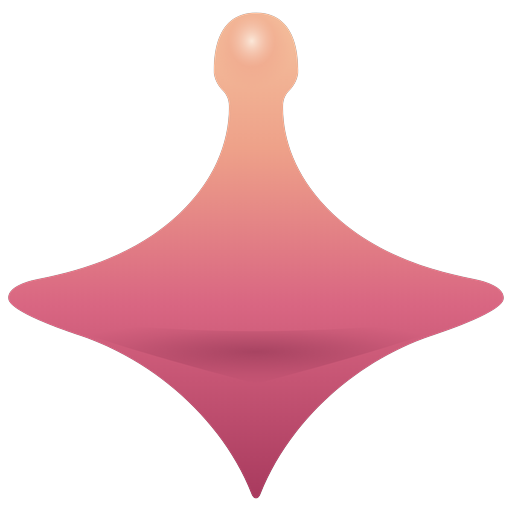
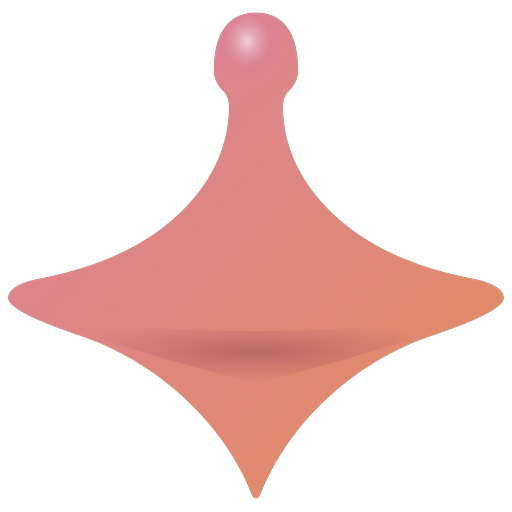
fix(brand): match mark gradient to app's actual diagonal brand gradient
Mark used a vertical fade; app's real brand gradient (Upgrade CTA,
plan badges) is diagonal #E69DB8 -> #F2A679 (bg-gradient-to-br).
Mark now uses the same direction/colors, darkened a shade. Also
shrinks the sidebar icon back down (34 -> 24px), it read oversized.

Changed region(s): [[0.0, 0.5312, 1.0, 0.9688], [0.4062, 0.0, 0.5938, 0.3125]]

diff --git a/apps/web/components/platform/Sidebar.tsx b/apps/web/components/platform/Sidebar.tsx
@@ -238,7 +238,7 @@ export function Sidebar() {
                                     src="/brand/olmoworks-mark.svg"
                                     alt={brandName}
                                     className="shrink-0 object-contain"
-                                    style={{ height: 34, width: "auto" }}
+                                    style={{ height: 24, width: "auto" }}
                                 />
                             )}
                             <span className="text-base font-semibold text-foreground tracking-tight truncate">{brandName}</span>
